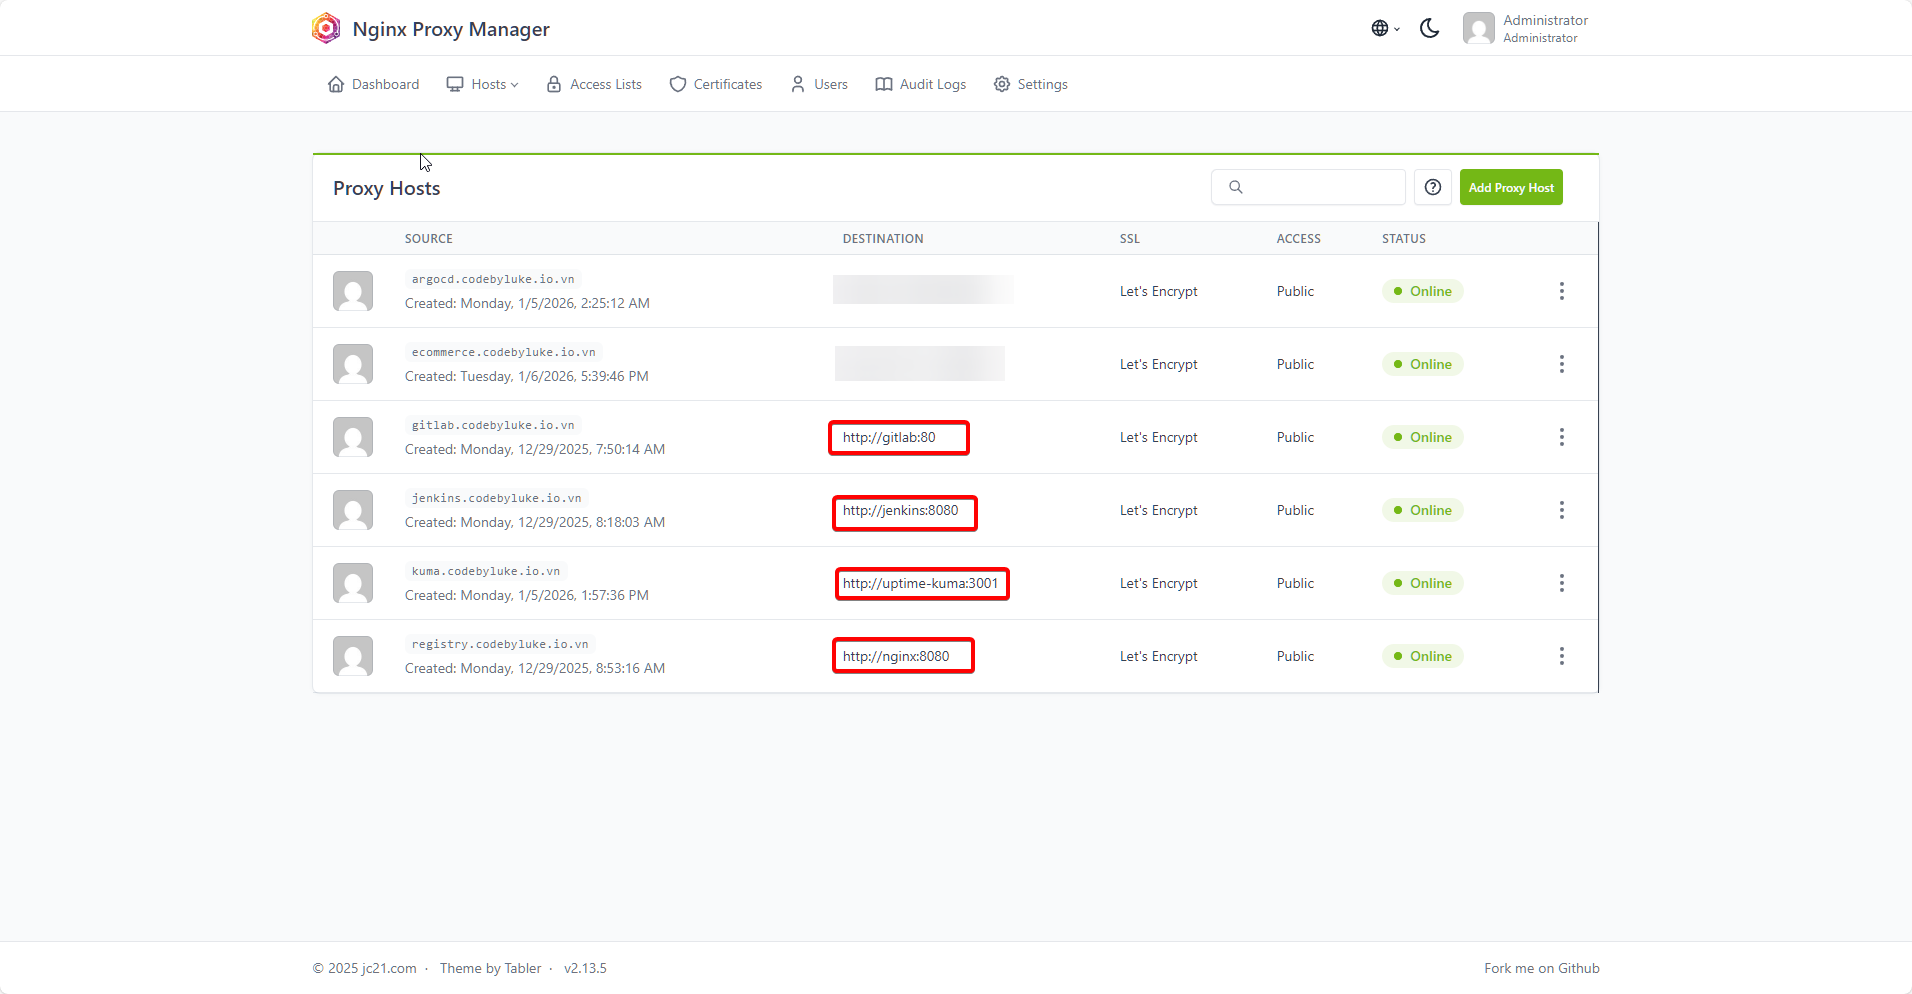
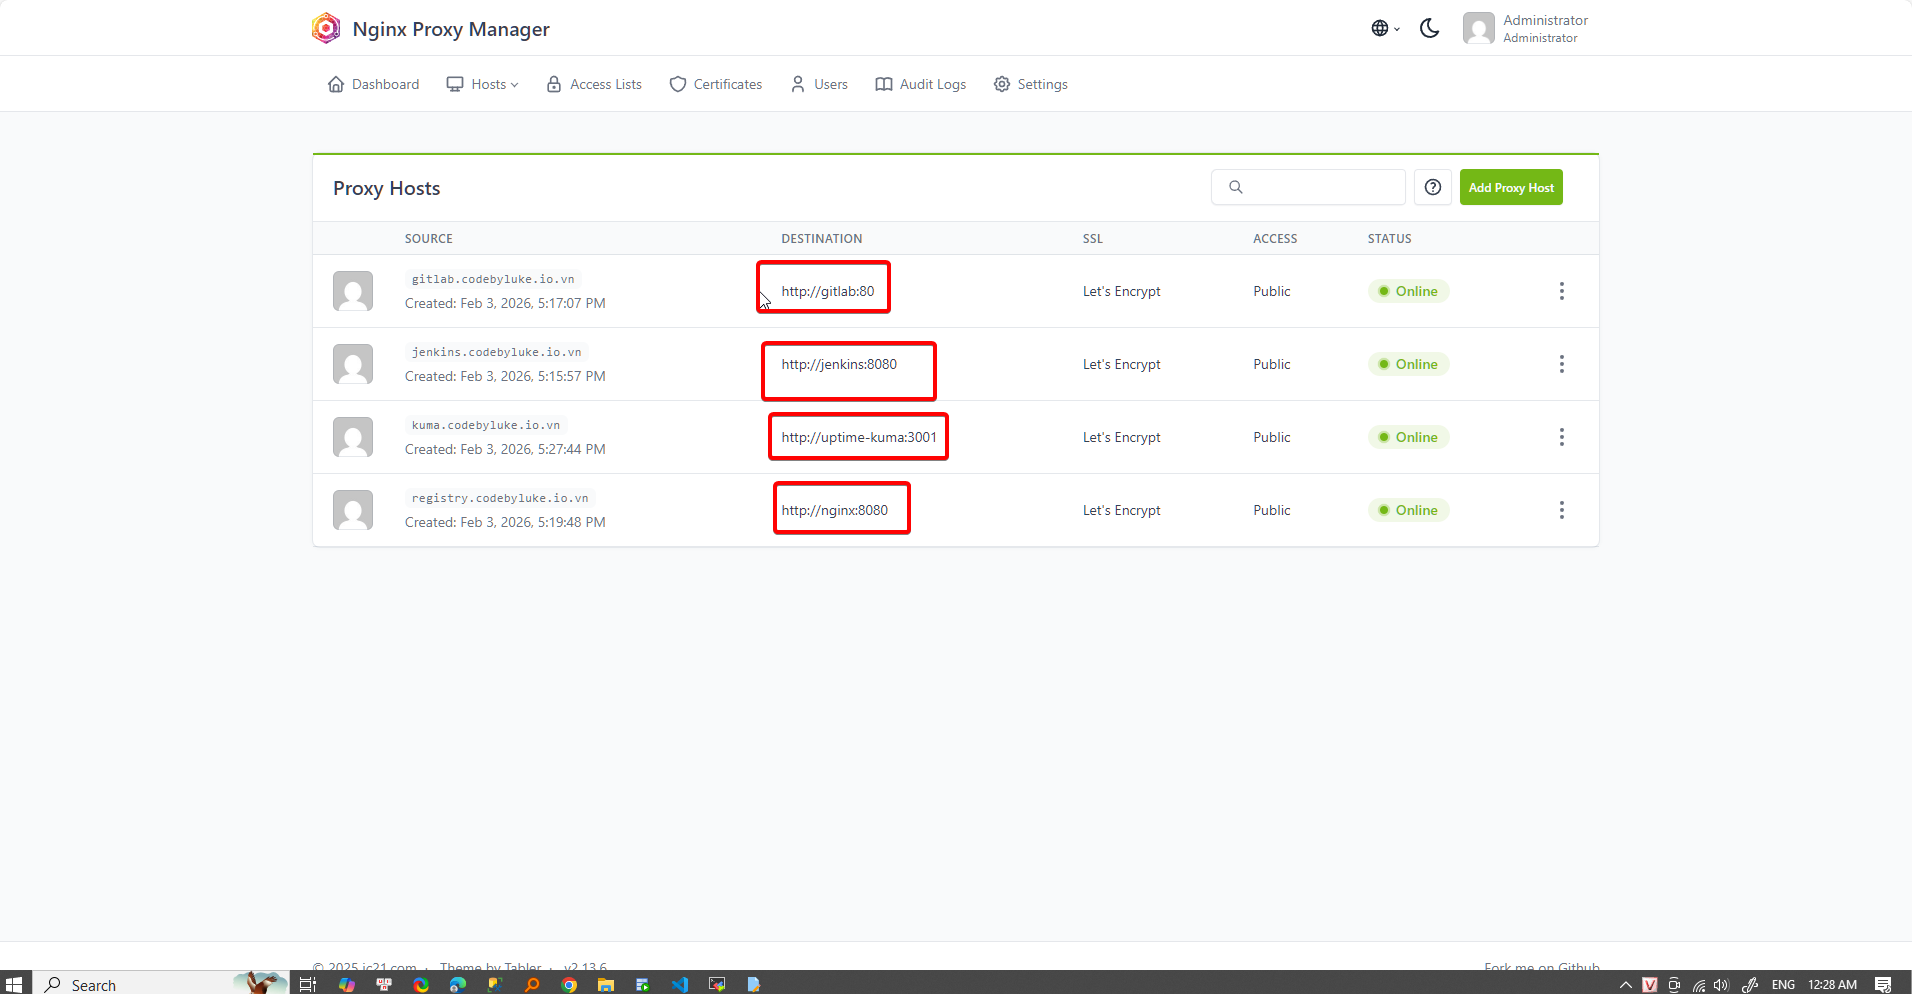
Update

diff --git a/docs/DevOps/Practices/Hybrid Cloud/09-ConnectJenkinsWithGitlab.md b/docs/DevOps/Practices/Hybrid Cloud/09-ConnectJenkinsWithGitlab.md
@@ -20,31 +20,6 @@
 
 ![Gitlab integration](./images/day09/image-14.png)
 
-## Khởi tạo Gitlab group và repository
-
-![gitlab repositories](./images/day09/image.png)
-
-Theo như thiết kế ta sẽ có 2 repo trong gitlab như sau:
-
-- **Project:** Chứa source code của dự án
-- **Manifest:** Chứa config của dự án
-
-:::note[Repository demo]
-Với mục đích demo, bạn có thể sử dụng project mẫu sau:
-
-- [Project repository](https://github.com/LocNguyenPV/Ecommerce-badminton)
-- [Manifest repository](https://github.com/LocNguyenPV/hybrid-cloud-manifest)
-
-:::
-
-Cho gần với thực tế hơn, ta sẽ tạo một group `hybrid-cloud` trên Gitlab để chứa 2 `repo` trên
-
-![gitlab group](./images/day09/image-1.png)
-
-Sau khi khởi tạo và import 2 `repo` vào group sẽ như hình
-
-![gitlab group project](./images/day09/image-2.png)
-
 ## Tích hợp Gitlab repository vào Jenkins
 
 Tiếp theo ta sẽ khởi tạo một pipeline trong Jenkins:

diff --git a/docs/DevOps/Practices/Hybrid Cloud/01-Overview.md b/docs/DevOps/Practices/Hybrid Cloud/01-Overview.md
@@ -87,6 +87,6 @@ Kết thúc hành trình này, bạn sẽ có trong tay:
 
 ### Kết luận
 
-Hệ thống Hybrid-Cloud không chỉ là một bài Lab, nó là giải pháp cho bài toán kinh tế và kỹ thuật hiện đại. Ở bài viết tiếp theo, mình sẽ đi sâu vào **Phân tích kỹ thuật và lựa chọn công cụ** - tại sao mình lại chọn Jenkins thay vì GitLab CI, hay tại sao Cloudflare lại là "chìa khóa" cho việc điều hướng traffic?
+Hệ thống Hybrid-Cloud không chỉ là một bài Lab, nó là giải pháp cho bài toán kinh tế và kỹ thuật hiện đại. Ở [bài viết sau](02-Techstack.md), mình sẽ đi sâu vào **Phân tích kỹ thuật và lựa chọn công cụ** - tại sao mình lại chọn Jenkins thay vì GitLab CI, hay tại sao Cloudflare lại là "chìa khóa" cho việc điều hướng traffic?
 
 Cùng chờ đón nhé!

diff --git a/docs/DevOps/Practices/Hybrid Cloud/03-ConfigOnPremise.md b/docs/DevOps/Practices/Hybrid Cloud/03-ConfigOnPremise.md
@@ -403,4 +403,4 @@ Xong bài này, chúng ta đã có một "đại bản doanh" đầy đủ vũ k
 - **K8s** sẵn sàng chạy ứng dụng
 - **Uptime Kuma** sẵn sàng giám sát
 
-Ở bài sau, thay vì phải gõ `http://<IP>:<port>` để truy cập services thì chúng ta sẽ cấu hình **Nginx Proxy Manager** để có thể truy cập bằng `domain` một cách chuẩn chỉnh và chuyên nghiệp
+Ở [bài sau](04-ConfigNPM.md), thay vì phải gõ `http://<IP>:<port>` để truy cập services thì chúng ta sẽ cấu hình **Nginx Proxy Manager** để có thể truy cập bằng `domain` một cách chuẩn chỉnh và chuyên nghiệp

diff --git a/docs/DevOps/Practices/Hybrid Cloud/02-Techstack.md b/docs/DevOps/Practices/Hybrid Cloud/02-Techstack.md
@@ -58,7 +58,7 @@ Việc kết hợp những mảnh ghép này lại với nhau tạo nên một h
 
 ### Kết luận
 
-Lựa chọn xong "vũ khí" là chúng ta đã đi được 50% chặng đường. Ở bài viết tiếp theo, mình sẽ cùng các bạn bắt tay vào cấu hình và xây dựng ở phía **on-premise**.
+Lựa chọn xong "vũ khí" là chúng ta đã đi được 50% chặng đường. Ở [bài viết tiếp theo](03-ConfigOnPremise.md), mình sẽ cùng các bạn bắt tay vào cấu hình và xây dựng ở phía **on-premise**.
 
 Hẹn gặp lại các bạn ở Bài 3!
 
